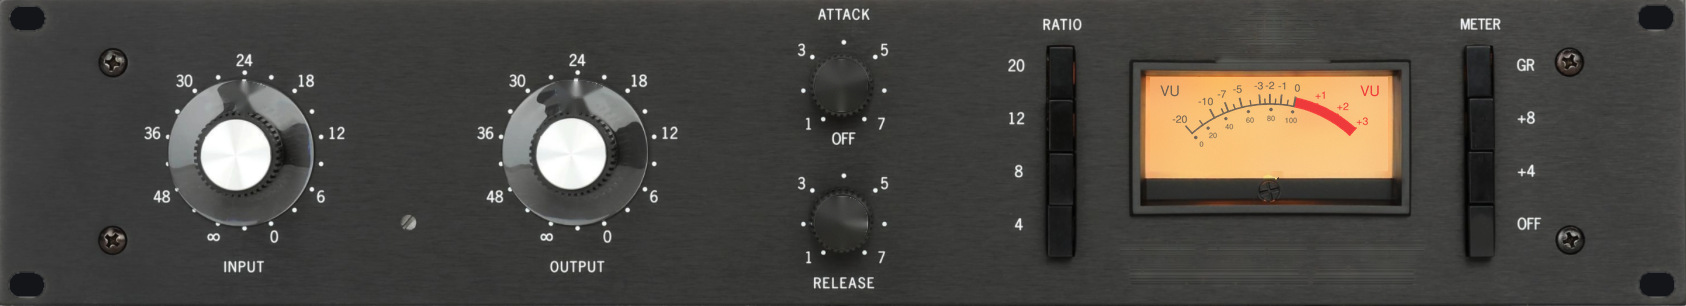
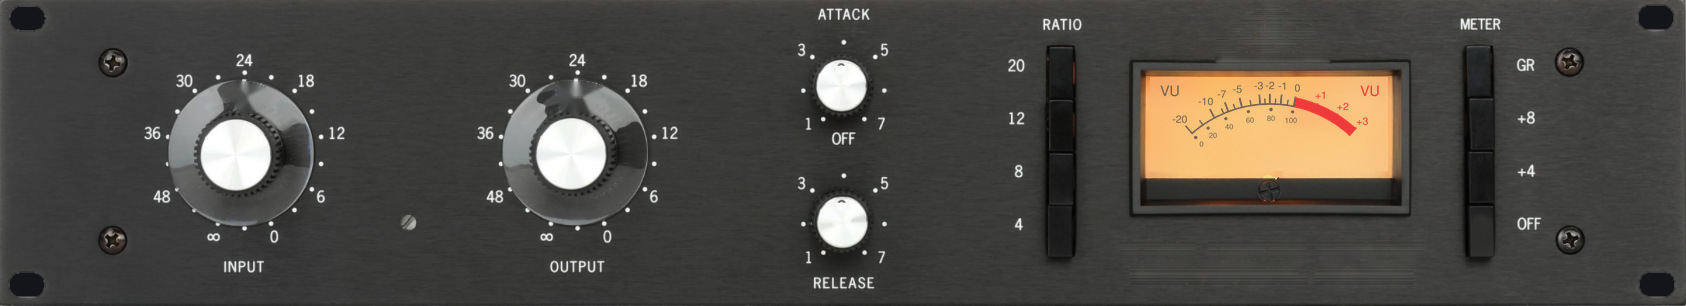
WIP (not released): compressor knobs keep their photographed light; only pointers or bars are drawn
Claude-Session: https://claude.ai/code/session_01DgN5Pp5mEpwskfyLeK4W68

Changed region(s): [[0.4626, 0.1765, 0.5243, 0.3824], [0.4626, 0.6471, 0.5243, 0.8235]]

diff --git a/Source/ui/CompressorFaceData.h b/Source/ui/CompressorFaceData.h
@@ -57,18 +57,18 @@ namespace riff::effectdesign::photo
         { "plat.k0dB", "plat_k0dB_png", 4, 0.00f, 0.00f, 0.00f, 0.00f, 1167, 224, 40, 11, 0, 0, 0, 0 },
         { "plat.k12dB", "plat_k12dB_png", 4, 0.00f, 0.00f, 0.00f, 0.00f, 1167, 257, 40, 11, 0, 0, 0, 0 },
         { "plat.power", "plat_power_png", 3, 1517.00f, 223.00f, 36.00f, 0.00f, 0, 0, 0, 0, 0, 0, 0, 0 },
-        { "svca.gain1", "svca_gain1_png", 0, 515.00f, 116.00f, 39.00f, 0.00f, 0, 0, 0, 0, 0, 0, 0, 0 },
-        { "svca.gain2", "svca_gain2_png", 0, 523.00f, 272.00f, 43.00f, 0.00f, 0, 0, 0, 0, 0, 0, 0, 0 },
-        { "svca.ratio1", "svca_ratio1_png", 0, 615.00f, 36.00f, 36.00f, 0.00f, 0, 0, 0, 0, 0, 0, 0, 0 },
-        { "svca.ratio2", "svca_ratio2_png", 0, 620.00f, 204.00f, 33.00f, 0.00f, 0, 0, 0, 0, 0, 0, 0, 0 },
-        { "svca.thresh1", "svca_thresh1_png", 0, 711.00f, 124.00f, 31.00f, 0.00f, 0, 0, 0, 0, 0, 0, 0, 0 },
-        { "svca.thresh2", "svca_thresh2_png", 0, 719.00f, 279.00f, 33.00f, 0.00f, 0, 0, 0, 0, 0, 0, 0, 0 },
-        { "svca.attack1", "svca_attack1_png", 0, 831.00f, 49.00f, 34.00f, 0.00f, 0, 0, 0, 0, 0, 0, 0, 0 },
-        { "svca.attack2", "svca_attack2_png", 0, 833.00f, 206.00f, 34.00f, 0.00f, 0, 0, 0, 0, 0, 0, 0, 0 },
-        { "svca.release1", "svca_release1_png", 0, 927.00f, 113.00f, 31.00f, 0.00f, 0, 0, 0, 0, 0, 0, 0, 0 },
-        { "svca.release2", "svca_release2_png", 0, 926.00f, 268.00f, 32.00f, 0.00f, 0, 0, 0, 0, 0, 0, 0, 0 },
-        { "svca.limThr1", "svca_limThr1_png", 0, 1635.00f, 126.00f, 31.00f, 0.00f, 0, 0, 0, 0, 0, 0, 0, 0 },
-        { "svca.limThr2", "svca_limThr2_png", 0, 1627.00f, 280.00f, 35.00f, 0.00f, 0, 0, 0, 0, 0, 0, 0, 0 },
+        { "svca.gain1", "none", 1, 515.00f, 116.00f, 30.00f, 0.00f, 0, 0, 0, 0, 0, 0, 0, 0 },
+        { "svca.gain2", "none", 1, 523.00f, 272.00f, 32.00f, 0.00f, 0, 0, 0, 0, 0, 0, 0, 0 },
+        { "svca.ratio1", "none", 1, 615.00f, 36.00f, 28.00f, 0.00f, 0, 0, 0, 0, 0, 0, 0, 0 },
+        { "svca.ratio2", "none", 1, 620.00f, 204.00f, 26.00f, 0.00f, 0, 0, 0, 0, 0, 0, 0, 0 },
+        { "svca.thresh1", "none", 1, 711.00f, 124.00f, 26.00f, 0.00f, 0, 0, 0, 0, 0, 0, 0, 0 },
+        { "svca.thresh2", "none", 1, 719.00f, 279.00f, 25.00f, 0.00f, 0, 0, 0, 0, 0, 0, 0, 0 },
+        { "svca.attack1", "none", 1, 831.00f, 49.00f, 30.00f, 0.00f, 0, 0, 0, 0, 0, 0, 0, 0 },
+        { "svca.attack2", "none", 1, 833.00f, 206.00f, 25.00f, 0.00f, 0, 0, 0, 0, 0, 0, 0, 0 },
+        { "svca.release1", "none", 1, 927.00f, 113.00f, 24.00f, 0.00f, 0, 0, 0, 0, 0, 0, 0, 0 },
+        { "svca.release2", "none", 1, 926.00f, 268.00f, 24.00f, 0.00f, 0, 0, 0, 0, 0, 0, 0, 0 },
+        { "svca.limThr1", "none", 1, 1635.00f, 126.00f, 22.00f, 0.00f, 0, 0, 0, 0, 0, 0, 0, 0 },
+        { "svca.limThr2", "none", 1, 1627.00f, 280.00f, 30.00f, 0.00f, 0, 0, 0, 0, 0, 0, 0, 0 },
         { "svca.in1", "svca_in1_png", 3, 356.00f, 99.00f, 21.00f, 0.00f, 0, 0, 0, 0, 0, 0, 0, 0 },
         { "svca.key1", "svca_key1_png", 3, 415.00f, 101.00f, 21.00f, 0.00f, 0, 0, 0, 0, 0, 0, 0, 0 },
         { "svca.in2", "svca_in2_png", 3, 360.00f, 252.00f, 23.00f, 0.00f, 0, 0, 0, 0, 0, 0, 0, 0 },
@@ -87,10 +87,10 @@ namespace riff::effectdesign::photo
         { "sfet.needle", "sfet_needle_png", 2, 1073.00f, 228.00f, 136.00f, 0.00f, 0, 0, 0, 0, 944, 77, 1197, 188 },
         { "sfet.input", "sfet_input_png", 1, 301.00f, 157.00f, 77.00f, 3.30f, 0, 0, 0, 0, 0, 0, 0, 0 },
         { "sfet.output", "sfet_output_png", 1, 565.00f, 157.00f, 77.00f, 3.40f, 0, 0, 0, 0, 0, 0, 0, 0 },
-        { "sfet.attack", "sfet_attack_png", 1, 742.00f, 84.00f, 27.00f, -0.90f, 0, 0, 0, 0, 0, 0, 0, 0 },
-        { "sfet.release", "sfet_release_png", 1, 742.00f, 216.00f, 27.00f, 1.90f, 0, 0, 0, 0, 0, 0, 0, 0 },
-        { "sfet.mix", "sfet_mix_png", 1, 1420.00f, 84.00f, 27.00f, 2.20f, 0, 0, 0, 0, 0, 0, 0, 0 },
-        { "sfet.scHpf", "sfet_scHpf_png", 1, 1420.00f, 218.00f, 27.00f, 6.00f, 0, 0, 0, 0, 0, 0, 0, 0 },
+        { "sfet.attack", "sfet_attack_png", 1, 742.00f, 84.00f, 23.00f, -1.10f, 0, 0, 0, 0, 0, 0, 0, 0 },
+        { "sfet.release", "sfet_release_png", 1, 742.00f, 216.00f, 23.00f, 2.10f, 0, 0, 0, 0, 0, 0, 0, 0 },
+        { "sfet.mix", "sfet_mix_png", 1, 1420.00f, 84.00f, 23.00f, 1.90f, 0, 0, 0, 0, 0, 0, 0, 0 },
+        { "sfet.scHpf", "sfet_scHpf_png", 1, 1420.00f, 218.00f, 23.00f, 5.00f, 0, 0, 0, 0, 0, 0, 0, 0 },
         { "sfet.tg_zin_up", "sfet_tg_zin_up_png", 0, 173.00f, 88.00f, 21.00f, 0.00f, 0, 0, 0, 0, 0, 0, 0, 0 },
         { "sfet.tg_zin_down", "sfet_tg_zin_down_png", 0, 173.00f, 88.00f, 21.00f, 0.00f, 0, 0, 0, 0, 0, 0, 0, 0 },
         { "sfet.tg_bypass_up", "sfet_tg_bypass_up_png", 0, 172.00f, 224.00f, 21.00f, 0.00f, 0, 0, 0, 0, 0, 0, 0, 0 },
@@ -109,30 +109,30 @@ namespace riff::effectdesign::photo
         { "sfet.m4", "sfet_m4_png", 4, 0.00f, 0.00f, 0.00f, 0.00f, 1257, 155, 29, 51, 0, 0, 0, 0 },
         { "sfet.mOff", "sfet_mOff_png", 4, 0.00f, 0.00f, 0.00f, 0.00f, 1257, 208, 29, 52, 0, 0, 0, 0 },
         { "cvca.needle", "cvca_needle_png", 2, 218.00f, 101.00f, 81.00f, 0.00f, 0, 0, 0, 0, 144, 11, 294, 84 },
-        { "cvca.threshold", "cvca_threshold_png", 0, 392.00f, 76.00f, 35.00f, -35.90f, 0, 0, 0, 0, 0, 0, 0, 0 },
-        { "cvca.attack", "cvca_attack_png", 0, 534.00f, 77.00f, 34.00f, -27.60f, 0, 0, 0, 0, 0, 0, 0, 0 },
-        { "cvca.ratio", "cvca_ratio_png", 0, 671.00f, 77.00f, 34.00f, -20.00f, 0, 0, 0, 0, 0, 0, 0, 0 },
-        { "cvca.release", "cvca_release_png", 0, 810.00f, 77.00f, 34.00f, -22.20f, 0, 0, 0, 0, 0, 0, 0, 0 },
-        { "cvca.makeup", "cvca_makeup_png", 0, 946.00f, 77.00f, 35.00f, -28.00f, 0, 0, 0, 0, 0, 0, 0, 0 },
-        { "cvca.scHpf", "cvca_scHpf_png", 0, 1087.00f, 79.00f, 34.00f, -8.70f, 0, 0, 0, 0, 0, 0, 0, 0 },
-        { "cvca.vcaDrive", "cvca_vcaDrive_png", 0, 1226.00f, 77.00f, 35.00f, -27.70f, 0, 0, 0, 0, 0, 0, 0, 0 },
+        { "cvca.threshold", "cvca_threshold_png", 1, 393.00f, 77.00f, 28.00f, -35.90f, 0, 0, 0, 0, 0, 0, 0, 0 },
+        { "cvca.attack", "cvca_attack_png", 1, 534.00f, 78.00f, 28.00f, -27.60f, 0, 0, 0, 0, 0, 0, 0, 0 },
+        { "cvca.ratio", "cvca_ratio_png", 1, 671.00f, 78.00f, 28.00f, -20.00f, 0, 0, 0, 0, 0, 0, 0, 0 },
+        { "cvca.release", "cvca_release_png", 1, 810.00f, 78.00f, 28.00f, -22.20f, 0, 0, 0, 0, 0, 0, 0, 0 },
+        { "cvca.makeup", "cvca_makeup_png", 1, 947.00f, 78.00f, 28.00f, -28.00f, 0, 0, 0, 0, 0, 0, 0, 0 },
+        { "cvca.scHpf", "cvca_scHpf_png", 1, 1087.00f, 80.00f, 28.00f, -8.70f, 0, 0, 0, 0, 0, 0, 0, 0 },
+        { "cvca.vcaDrive", "cvca_vcaDrive_png", 1, 1226.00f, 77.00f, 28.00f, -27.70f, 0, 0, 0, 0, 0, 0, 0, 0 },
         { "cvca.kComp", "cvca_kComp_png", 4, 0.00f, 0.00f, 0.00f, 0.00f, 1322, 51, 56, 56, 0, 0, 0, 0 },
         { "cvca.kExt", "cvca_kExt_png", 4, 0.00f, 0.00f, 0.00f, 0.00f, 1446, 52, 56, 56, 0, 0, 0, 0 },
         { "cvca.power", "cvca_power_png", 3, 1591.00f, 74.00f, 37.00f, 0.00f, 0, 0, 0, 0, 0, 0, 0, 0 },
         { "cvca.driveLed", "cvca_driveLed_png", 3, 1183.00f, 120.00f, 14.00f, 0.00f, 0, 0, 0, 0, 0, 0, 0, 0 },
         { "vvca.needle", "vvca_needle_png", 2, 162.00f, 159.00f, 104.00f, 0.00f, 0, 0, 0, 0, 76, 53, 258, 135 },
-        { "vvca.threshold", "vvca_threshold_png", 0, 116.00f, 292.00f, 28.00f, -1.70f, 0, 0, 0, 0, 0, 0, 0, 0 },
-        { "vvca.makeup", "vvca_makeup_png", 0, 225.00f, 294.00f, 28.00f, 2.00f, 0, 0, 0, 0, 0, 0, 0, 0 },
-        { "vvca.attack", "vvca_attack_png", 0, 116.00f, 402.00f, 28.00f, -9.50f, 0, 0, 0, 0, 0, 0, 0, 0 },
-        { "vvca.release", "vvca_release_png", 0, 224.00f, 401.00f, 28.00f, -11.90f, 0, 0, 0, 0, 0, 0, 0, 0 },
-        { "vvca.ratio", "vvca_ratio_png", 0, 116.00f, 510.00f, 28.00f, -12.30f, 0, 0, 0, 0, 0, 0, 0, 0 },
-        { "vvca.scHpf", "vvca_scHpf_png", 0, 222.00f, 510.00f, 28.00f, -11.90f, 0, 0, 0, 0, 0, 0, 0, 0 },
+        { "vvca.threshold", "vvca_threshold_png", 1, 116.00f, 292.00f, 23.00f, -2.30f, 0, 0, 0, 0, 0, 0, 0, 0 },
+        { "vvca.makeup", "vvca_makeup_png", 1, 225.00f, 294.00f, 23.00f, -0.30f, 0, 0, 0, 0, 0, 0, 0, 0 },
+        { "vvca.attack", "vvca_attack_png", 1, 116.00f, 402.00f, 23.00f, -11.80f, 0, 0, 0, 0, 0, 0, 0, 0 },
+        { "vvca.release", "vvca_release_png", 1, 224.00f, 401.00f, 23.00f, -7.60f, 0, 0, 0, 0, 0, 0, 0, 0 },
+        { "vvca.ratio", "vvca_ratio_png", 1, 116.00f, 510.00f, 23.00f, -10.00f, 0, 0, 0, 0, 0, 0, 0, 0 },
+        { "vvca.scHpf", "vvca_scHpf_png", 1, 222.00f, 510.00f, 23.00f, -14.90f, 0, 0, 0, 0, 0, 0, 0, 0 },
         { "vvca.kIn", "vvca_kIn_png", 4, 0.00f, 0.00f, 0.00f, 0.00f, 264, 243, 62, 25, 0, 0, 0, 0 },
         { "vfet.needle", "vfet_needle_png", 2, 1270.00f, 222.00f, 143.00f, 0.00f, 0, 0, 0, 0, 1145, 73, 1393, 181 },
         { "vfet.input", "vfet_input_png", 1, 236.00f, 154.00f, 75.00f, 11.00f, 0, 0, 0, 0, 0, 0, 0, 0 },
         { "vfet.output", "vfet_output_png", 1, 572.00f, 154.00f, 75.00f, 5.00f, 0, 0, 0, 0, 0, 0, 0, 0 },
-        { "vfet.attack", "vfet_attack_png", 0, 841.00f, 85.00f, 28.00f, -2.50f, 0, 0, 0, 0, 0, 0, 0, 0 },
-        { "vfet.release", "vfet_release_png", 0, 841.00f, 222.00f, 28.00f, -0.80f, 0, 0, 0, 0, 0, 0, 0, 0 },
+        { "vfet.attack", "vfet_attack_png", 1, 841.00f, 85.00f, 22.00f, -2.50f, 0, 0, 0, 0, 0, 0, 0, 0 },
+        { "vfet.release", "vfet_release_png", 1, 841.00f, 222.00f, 22.00f, -0.80f, 0, 0, 0, 0, 0, 0, 0, 0 },
         { "vfet.r20", "vfet_r20_png", 4, 0.00f, 0.00f, 0.00f, 0.00f, 1047, 47, 26, 51, 0, 0, 0, 0 },
         { "vfet.r12", "vfet_r12_png", 4, 0.00f, 0.00f, 0.00f, 0.00f, 1047, 100, 26, 51, 0, 0, 0, 0 },
         { "vfet.r8", "vfet_r8_png", 4, 0.00f, 0.00f, 0.00f, 0.00f, 1047, 153, 26, 51, 0, 0, 0, 0 },

diff --git a/Source/ui/EffectDesigns.cpp b/Source/ui/EffectDesigns.cpp
@@ -2777,6 +2777,24 @@ namespace
             s.logMap = logMap;
             s.scale = pg.scale;
             s.offset = pg.origin;
+            // The knobs whose light would turn with them (their caps' shading, a bar's reflections) stay as photographed;
+            // only their pointer - or the bar - is drawn, at the setting
+            const juce::String face (pg.face), name (partName);
+            const auto drawn = [&s, &p] (Sprite::Drawn kind, juce::Colour ink, float inner, float outer, float thickness)
+            {
+                s.drawn = kind; s.ink = ink; s.inner = inner; s.outer = outer; s.thickness = thickness;
+                s.radius = p.R; s.image = nullptr;
+            };
+            if (face == "svca")
+                drawn (Sprite::Drawn::bar, {}, 0.0f, 1.0f, 0.46f);
+            else if (face == "cvca")
+                drawn (Sprite::Drawn::line, juce::Colour (0xff141414), 0.06f, 0.9f, 0.1f);
+            else if (face == "vvca")
+                drawn (Sprite::Drawn::line, juce::Colour (0xfff4f4f2), 0.18f, 0.92f, 0.15f);
+            else if (face == "sfet" && name != "input" && name != "output")
+                drawn (Sprite::Drawn::dot, juce::Colour (0xff2e2e2e), 0.0f, 0.58f, 0.26f);
+            else if (face == "vfet" && name != "input" && name != "output")
+                drawn (Sprite::Drawn::dot, juce::Colour (0xff2a2a2a), 0.0f, 0.6f, 0.28f);
             Control c;
             c.id = id;
             c.kind = Kind::knob;
@@ -4665,6 +4683,62 @@ float photoAngleOf (const Sprite& sp, float value)
 
 void DesignLook::drawSprite (juce::Graphics& g, juce::Component& c, const Sprite& sp, float pos, bool on, int settings)
 {
+    if (sp.drawn != Sprite::Drawn::none)
+    {
+        const auto absolute = c.getProperties().contains ("photoAngle") ? (float) c.getProperties()["photoAngle"]
+                            : sp.angles.empty() ? 0.0f : angleAt (sp.angles, pos, settings);
+        const auto scale = sp.scale > 0.0f ? sp.scale : design.photoScale;
+        const auto offset = sp.scale > 0.0f ? sp.offset : design.photoOffset.toFloat();
+        const auto centre = sp.pivot * scale + offset - c.getPosition().toFloat();
+        const auto r = sp.radius * scale;
+        const auto a = juce::degreesToRadians (absolute);
+        const juce::Point<float> dir (std::sin (a), -std::cos (a));
+        juce::Graphics::ScopedSaveState keep (g);
+        if (sp.drawn == Sprite::Drawn::line)
+        {
+            const auto p0 = centre + dir * (r * sp.inner), p1 = centre + dir * (r * sp.outer);
+            g.setColour (sp.ink);
+            g.drawLine ({ p0, p1 }, std::max (1.2f, r * sp.thickness));
+        }
+        else if (sp.drawn == Sprite::Drawn::dot)
+        {
+            const auto p = centre + dir * (r * sp.outer);
+            const auto d = std::max (2.5f, r * sp.thickness);
+            g.setColour (sp.ink);
+            g.drawEllipse (RF (d, d).withCentre (p), std::max (1.0f, d * 0.28f));
+        }
+        else
+        {
+            // A bar knob: a machined bar across the knob, the light always from above (it doesn't turn with it)
+            const auto len = r * 1.92f, wid = r * sp.thickness;
+            juce::Path bar;
+            bar.addRoundedRectangle (-len * 0.5f, -wid * 0.5f, len, wid, wid * 0.18f);
+            const auto t = juce::AffineTransform::rotation (a + juce::MathConstants<float>::halfPi).translated (centre);
+            // shadow
+            g.setColour (juce::Colours::black.withAlpha (0.45f));
+            g.fillPath (bar, t.translated (r * 0.05f, r * 0.12f));
+            // the bar: lighter on its upper long face, darker on the lower, as lit from above
+            const juce::Point<float> across (-dir.y, dir.x);   // (the bar's width direction... its long axis is `dir`)
+            const auto upFace = juce::Point<float> (dir.y, -dir.x).y < 0.0f ? juce::Point<float> (dir.y, -dir.x) : juce::Point<float> (-dir.y, dir.x);
+            juce::ignoreUnused (across);
+            const auto top = centre + upFace * (wid * 0.5f), bottom = centre - upFace * (wid * 0.5f);
+            juce::ColourGradient grad (juce::Colour (0xfff4f5f6), top.x, top.y, juce::Colour (0xff8e9196), bottom.x, bottom.y, false);
+            grad.addColour (0.45, juce::Colour (0xffd8dadd));
+            grad.addColour (0.55, juce::Colour (0xffb9bcc0));
+            g.setGradientFill (grad);
+            g.fillPath (bar, t);
+            g.setColour (juce::Colours::black.withAlpha (0.35f));
+            g.strokePath (bar, juce::PathStrokeType (std::max (0.8f, r * 0.03f)), t);
+            // the end faces: a little darker
+            for (const auto sgn : { -1.0f, 1.0f })
+            {
+                const auto e = centre + dir * (sgn * len * 0.5f);
+                g.setColour (juce::Colours::black.withAlpha (0.12f));
+                g.fillEllipse (RF (wid * 0.5f, wid * 0.5f).withCentre (e - dir * (sgn * wid * 0.25f)));
+            }
+        }
+        return;
+    }
     if (sp.image == nullptr)
         return;
     const auto image = skinImage (sp.offImage != nullptr && ! on ? sp.offImage : sp.image);

diff --git a/Tools/compressor_skins/tools/face.py b/Tools/compressor_skins/tools/face.py
@@ -784,3 +784,42 @@ def _push_button(self, key, cx, cy, R, lamp=(255, 70, 40), clear=34, info=None):
         self.save_part(f'{key}_{name}', p[..., :3], p[..., 3] / 255.0, dict(info or {}, cx=icx, cy=icy, R=Ri, kind='turn'))
 
 Face.push_button = _push_button
+
+def _still_knob(self, key, cx, cy, cap, r0, r1, kind, hint, spread=30, threshold=60, fillturn=35):
+    """A knob that stays as photographed (its light doesn't turn): its own pointer (line or dot) taken off the cap,
+    the cap filled from its own surface turned a little; the app draws the pointer at the setting."""
+    a = self.knob_pointer(key, cx, cy, r0, r1, kind, hint, spread=spread, threshold=threshold, fillmode='turn', fillturn=fillturn)
+    p = self.layout['parts'][key]
+    p['R'] = round(self.S(cap))
+    p['kind'] = 'pointer'
+    # (the middle, which no turn moves: the cap's own colour there, smoothly)
+    ccx, ccy = self.S(cx), self.S(cy)
+    lum = self.bg.mean(2)
+    mid = (np.hypot(self.xx - ccx, self.yy - ccy) < self.S(cap) * 0.42)
+    local = cv2.medianBlur(np.clip(lum, 0, 255).astype(np.uint8), 9).astype(np.float32)
+    odd = (mid & (np.abs(lum - local) > 12)).astype(np.uint8)
+    if odd.any():
+        self.fill(cv2.dilate(odd, np.ones((3, 3), np.uint8)), radius=3)
+    return a
+
+def _recess(self, key, cx, cy, r, test, darken=0.62):
+    """A knob that's drawn whole (a bar knob): the photo's knob taken out, its round recess in the panel shaded."""
+    m = self._cap_mask(cx, cy, r, test)
+    ys, xs = np.nonzero(m)
+    ccx, ccy = (xs.min() + xs.max()) / 2.0, (ys.min() + ys.max()) / 2.0
+    rad = max(xs.max() - xs.min(), ys.max() - ys.min()) / 2.0
+    hole = np.zeros((self.H, self.W), np.uint8)
+    cv2.circle(hole, (int(round(ccx)), int(round(ccy))), int(round(rad)) + 2, 1, -1)
+    # the recess, clean: the panel's red, in shade, its lower lip catching the light
+    ring = (np.hypot(self.xx - ccx, self.yy - ccy) > rad + 5) & (np.hypot(self.xx - ccx, self.yy - ccy) < rad + 10)
+    col = np.median(self.bg[ring], axis=0)
+    d = np.hypot(self.xx - ccx, self.yy - ccy) / max(rad + 2, 1)
+    down = np.clip((self.yy - ccy) / max(rad, 1), -1, 1)
+    shade = 0.42 + 0.18 * (1 - d) + 0.22 * np.clip(down, 0, 1) * np.clip((d - 0.75) / 0.25, 0, 1)
+    fill = col[None, None, :] * shade[..., None] + self.rng.normal(0, 1.0, self.bg.shape)
+    hm = cv2.GaussianBlur((d <= 1.0).astype(np.float32), (0, 0), 1.0)[..., None]
+    self.bg = self.bg * (1 - hm) + fill * hm
+    self.layout['parts'][key] = dict(image='none', cx=int(round(ccx)), cy=int(round(ccy)), R=int(round(rad)), kind='pointer', angle=0.0)
+
+Face.still_knob = _still_knob
+Face.recess = _recess

diff --git a/Tools/compressor_skins/studiofet.py b/Tools/compressor_skins/studiofet.py
@@ -7,10 +7,10 @@ f.erase([(1010,226,1150,280)],threshold=60,dilate=5)      # maker's name under i
 f.needle('needle',tip=(1107,103),base=(1086,193),pivot=(1078,232),rtip=132,width=3,threshold=50,window=(949,81,1202,192))
 f.knob_pointer('input',306,161,40,74,'light',hint=3,spread=18,fillturn=22)
 f.knob_pointer('output',570,161,40,74,'light',hint=3,spread=18,fillturn=22)
-f.knob_pointer('attack',747,88,6,24,'dark',hint=0,spread=30,threshold=45,fillmode='inpaint',grow=7)
-f.knob_pointer('release',747,220,6,24,'dark',hint=0,spread=30,threshold=45,fillmode='inpaint',grow=7)
-f.knob_pointer('mix',1425,88,6,24,'dark',hint=0,spread=30,threshold=45,fillmode='inpaint',grow=7)
-f.knob_pointer('scHpf',1425,222,6,24,'dark',hint=0,spread=30,threshold=45,fillmode='inpaint',grow=7)
+f.still_knob('attack',747,88,23,6,24,'dark',hint=0,spread=30,threshold=30)
+f.still_knob('release',747,220,23,6,24,'dark',hint=0,spread=30,threshold=30)
+f.still_knob('mix',1425,88,23,6,24,'dark',hint=0,spread=30,threshold=30)
+f.still_knob('scHpf',1425,222,23,6,24,'dark',hint=0,spread=30,threshold=30)
 for k,(x,y) in {'zin':(177,88),'bypass':(177,228),'link':(1519,88),'extSc':(1519,222)}.items():
     f.toggle('tg_'+k,x,y,19,9)
 f.lamp('led',441,234,5,lit_in_photo=False,glow=2.2)

diff --git a/Tools/compressor_skins/studiovca.py b/Tools/compressor_skins/studiovca.py
@@ -10,7 +10,7 @@ K={'gain1':(647,674,40),'gain2':(646,825,44),'ratio1':(740,605,31),'ratio2':(742
    'attack1':(953,615,31),'attack2':(955,769,30),'release1':(1051,675,31),'release2':(1052,825,34),'limThr1':(1749,685,30),'limThr2':(1744,836,36)}
 # (the knobs alone turn: their silver caps and bars, not the red round them)
 notRed=lambda A,l,s: ~((A[:,:,0]-np.maximum(A[:,:,1],A[:,:,2])>45)&(A[:,:,0]>90)) & (l>55)
-for k,(x,y,r) in K.items(): f.knob_cap(k,x,y,r+6,notRed)
+for k,(x,y,r) in K.items(): f.recess(k,x,y,r+6,notRed)
 # lamps (illuminated keys and indicators, lit in the photo)
 L={'in1':(479,667,13),'key1':(538,669,13),'in2':(483,820,14),'key2':(539,820,14),'auto1':(1051,612,14),'auto2':(1051,764,14),
    'gainChange':(1159,621,13),'stereo':(1523,820,14),'limIn2':(1619,821,14),'limIn1':(1623,669,13),'limit2':(1679,776,13),'limit1':(1683,623,14),
@@ -30,4 +30,4 @@ for (pv,circle,below,r,ang,sz,vu_at) in [((1430,722),(1429,671,59),688,80,(-28.2
               mask_below=below,numbers=[-20,-10,-7,-5,-3,0,3],red_width=5,percent=True,
               extra=(('VU',vu_at[0],vu_at[1],13,False),))
 f.write()
-f.preview('prev_svca.png',{k:40 for k in K}|{'needle1':40,'needle2':10})
+

diff --git a/Source/ui/EffectDesigns.h b/Source/ui/EffectDesigns.h
@@ -73,6 +73,15 @@ namespace riff::effectdesign
         // (a face with pages of different photos: this one's photo scale and where it sits; 0: the design's)
         float scale = 0.0f;
         juce::Point<float> offset {};
+
+        // (drawn, not cut from the photo: the photo's knob stays still, lit as photographed, and only what turns is
+        //  drawn at the setting - a pointer line, a dot, or a whole bar knob - so nothing's light turns with it)
+        enum class Drawn { none, line, dot, bar };
+        Drawn drawn = Drawn::none;
+        juce::Colour ink {};
+        float radius = 0.0f;                 // the knob's radius (photo pixels)
+        float inner = 0.0f, outer = 1.0f;    // a line: from and to, as fractions of the radius; a dot: where (outer)
+        float thickness = 0.1f;              // a line's width, a dot's size or a bar's width, as a fraction of the radius
     };
 
     struct Control

diff --git a/Tools/compressor_skins/classicvca.py b/Tools/compressor_skins/classicvca.py
@@ -10,7 +10,7 @@ K={'threshold':(401,88),'attack':(542,89),'ratio':(679,89),'release':(818,89),'m
 for k,(x,y) in K.items():
     from face import pointer_angle
     a=pointer_angle('photos/classicvca.png',x,y,0.5,26.5,'dark',hint=-18,spread=40,threshold=70)
-    f.knob_cap(k,x,y,31,lambda A,l,s: l>150,info={'angle':round(a,1)})
+    f.still_knob(k,x,y,28,0.5,26.5,'dark',hint=-18,spread=40,threshold=70,fillturn=40)
 f.region('kComp',(1330,62,1386,118),darken_bg=0.42)
 f.region('kExt',(1454,63,1510,119),darken_bg=0.42)
 f.lamp('power',1599,85,30,glow=1.15,dark=0.45)

diff --git a/Tools/compressor_skins/vintagefet.py b/Tools/compressor_skins/vintagefet.py
@@ -14,7 +14,7 @@ f.knob_pointer('output',578.5,160,40,72,'light',hint=5,spread=18,fillmode='inpai
 from face import pointer_angle
 for k,y in [('attack',91),('release',228)]:
     a=pointer_angle('photos/vintagefet.png',847,y,8,19,'dark',hint=0,spread=30,threshold=45)
-    f.knob_cap(k,847,y,24,lambda A,l,s: l>150,info={'angle':round(a,1)})
+    f.still_knob(k,847,y,22,8,19,'dark',hint=0,spread=30,threshold=45)
 f.pressed('r20',(1053,53,1079,104),k=2.6)
 f.pressed('r12',(1053,106,1079,157),k=2.6)
 f.pressed('r8',(1053,159,1079,210),k=2.6)

diff --git a/Tools/compressor_skins/vintagevca.py b/Tools/compressor_skins/vintagevca.py
@@ -10,7 +10,7 @@ for k,(x,y) in K.items():
     from face import pointer_angle
     a=pointer_angle('photos/vintagevca.png',x,y,1,20,'light',hint=0,spread=40,threshold=70)
     cx,cy=C[k]
-    f.knob_whole(k,cx,cy,24.5,info={'angle':round(a,1)})
+    f.still_knob(k,cx,cy,23,1,20,'light',hint=0,spread=40,threshold=70,fillturn=40)
 f.region('kIn',(268,247,330,272),darken_bg=0.6)
 f.relabel((92,70,112,90),'0',10,colour=(225,225,225),erase=False,centre=(101,80),font='sans')
 f.draw_gr((80,58,260,138),(166,163),74,-38.1,41.4,size=1.05)
